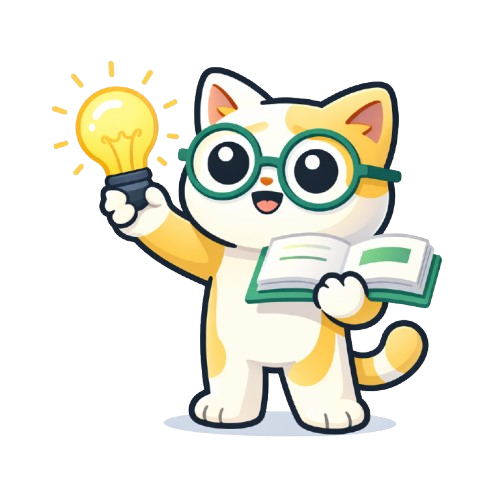
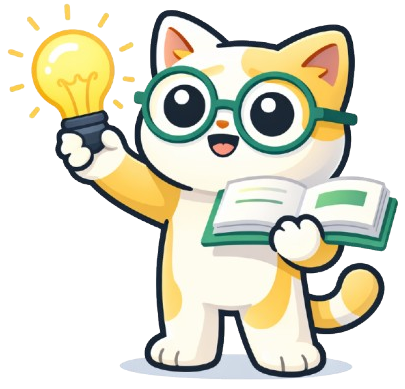
header redesign

diff --git a/lib/widgets/home/header_section.dart b/lib/widgets/home/header_section.dart
@@ -1,8 +1,8 @@
 import 'package:flutter/material.dart';
 import '../../models/user_data.dart';
-import '../../widgets/stat_card.dart';
 import '../../theme/app_colors.dart';
 import '../../theme/app_styles.dart';
+import '../sigma_mascot.dart';
 
 class HeaderSection extends StatelessWidget {
   final UserData userData;
@@ -37,58 +37,120 @@ class HeaderSection extends StatelessWidget {
         AppStyles.defaultPadding,
       ),
       child: Column(
+        crossAxisAlignment: CrossAxisAlignment.stretch,
         children: [
           Row(
             children: [
               Expanded(
-                child: Column(
-                  crossAxisAlignment: CrossAxisAlignment.start,
-                  children: [
-                    const Text('SigmaCards', style: AppStyles.headerTitle),
-                    const SizedBox(height: 4),
-                    Text('Keep learning every day', style: AppStyles.headerSubtitle),
-                  ],
+                child: Text(
+                  'СигмаКарточки',
+                  style: AppStyles.headerTitle,
                 ),
               ),
             ],
           ),
-          const SizedBox(height: AppStyles.defaultPadding),
-          _buildStatsRow(),
+          const SizedBox(height: 16),
+          Row(
+            crossAxisAlignment: CrossAxisAlignment.end,
+            children: [
+              Expanded(
+                child: Column(
+                  crossAxisAlignment: CrossAxisAlignment.start,
+                  mainAxisSize: MainAxisSize.min,
+                  children: [
+                    Row(
+                      children: [
+                        Text(
+                          '🔥',
+                          style: TextStyle(
+                            fontSize: 28,
+                            height: 1.1,
+                            shadows: [
+                              Shadow(
+                                color: Colors.black.withValues(alpha: 0.15),
+                                blurRadius: 4,
+                                offset: const Offset(0, 1),
+                              ),
+                            ],
+                          ),
+                        ),
+                        const SizedBox(width: 8),
+                        Text(
+                          '${userData.studyStreak}',
+                          style: const TextStyle(
+                            color: Colors.white,
+                            fontSize: 24,
+                            fontWeight: FontWeight.w800,
+                            height: 1.1,
+                          ),
+                        ),
+                        const SizedBox(width: 8),
+                        Flexible(
+                          child: Text(
+                            _streakLabel(userData.studyStreak),
+                            style: TextStyle(
+                              color: Colors.white.withValues(alpha: 0.88),
+                              fontSize: 15,
+                              fontWeight: FontWeight.w500,
+                              height: 1.1,
+                            ),
+                          ),
+                        ),
+                      ],
+                    ),
+                    const SizedBox(height: 16),
+                    Text(
+                      'Ученье — свет',
+                      style: Theme.of(context).textTheme.titleMedium?.copyWith(
+                            color: Colors.white,
+                            fontWeight: FontWeight.w700,
+                            letterSpacing: 0.2,
+                            shadows: [
+                              Shadow(
+                                color: Colors.black.withValues(alpha: 0.2),
+                                blurRadius: 6,
+                                offset: const Offset(0, 1),
+                              ),
+                            ],
+                          ),
+                    ),
+                    const SizedBox(height: 6),
+                    Text(
+                      'В этом свете — сила разума и путь сквозь тьму неведения.',
+                      style: Theme.of(context).textTheme.bodySmall?.copyWith(
+                            color: Colors.white.withValues(alpha: 0.9),
+                            height: 1.35,
+                            shadows: [
+                              Shadow(
+                                color: Colors.black.withValues(alpha: 0.18),
+                                blurRadius: 4,
+                                offset: const Offset(0, 1),
+                              ),
+                            ],
+                          ),
+                    ),
+                  ],
+                ),
+              ),
+              const SizedBox(width: 4),
+              Transform.translate(
+                offset: const Offset(-12, 0),
+                child: const SigmaMascot(size: 118),
+              ),
+            ],
+          ),
         ],
       ),
     );
   }
 
-  Widget _buildStatsRow() {
-    return Row(
-      children: [
-        Expanded(
-          child: StatCard(
-            icon: Icons.local_fire_department,
-            iconColor: AppColors.streakIconColor,
-            value: '${userData.studyStreak}',
-            label: 'Day Streak',
-          ),
-        ),
-        const SizedBox(width: AppStyles.sectionSpacing),
-        Expanded(
-          child: StatCard(
-            icon: Icons.calendar_today,
-            iconColor: AppColors.dueIconColor,
-            value: '${userData.dueCardsCount}',
-            label: 'Due Today',
-          ),
-        ),
-        const SizedBox(width: AppStyles.sectionSpacing),
-        Expanded(
-          child: StatCard(
-            icon: Icons.psychology,
-            iconColor: AppColors.decksIconColor,
-            value: '${userData.decks.length}',
-            label: 'Your Decks',
-          ),
-        ),
-      ],
-    );
+  /// «1 день подряд», «2 дня подряд», «5 дней подряд» и т.д.
+  static String _streakLabel(int n) {
+    final m10 = n % 10;
+    final m100 = n % 100;
+    if (m100 >= 11 && m100 <= 14) return 'дней подряд';
+    if (m10 == 1) return 'день подряд';
+    if (m10 >= 2 && m10 <= 4) return 'дня подряд';
+    return 'дней подряд';
   }
 }

diff --git a/lib/screens/home_screen.dart b/lib/screens/home_screen.dart
@@ -5,7 +5,6 @@ import '../theme/app_colors.dart';
 import '../widgets/home/header_section.dart';
 import '../widgets/home/quick_study_button.dart';
 import '../widgets/home/quick_actions_section.dart';
-import '../widgets/sigma_mascot.dart';
 
 /// Контент вкладки «Главная» (без собственного Scaffold — его даёт [MainShellScreen]).
 class HomeScreen extends StatelessWidget {
@@ -39,12 +38,12 @@ class HomeScreen extends StatelessWidget {
       color: isDark ? AppColors.darkBackground : AppColors.lightBackground,
       child: SizedBox.expand(
         child: SafeArea(
-          child: Column(
-            crossAxisAlignment: CrossAxisAlignment.stretch,
-            children: [
-              Expanded(
-                child: SingleChildScrollView(
-                  physics: const BouncingScrollPhysics(),
+          child: LayoutBuilder(
+            builder: (context, constraints) {
+              return SingleChildScrollView(
+                physics: const BouncingScrollPhysics(),
+                child: ConstrainedBox(
+                  constraints: BoxConstraints(minHeight: constraints.maxHeight),
                   child: Column(
                     crossAxisAlignment: CrossAxisAlignment.stretch,
                     children: [
@@ -107,45 +106,12 @@ class HomeScreen extends StatelessWidget {
                           ),
                         ),
                       ),
-                      const SizedBox(height: 16),
+                      const SizedBox(height: 24),
                     ],
                   ),
                 ),
-              ),
-              Padding(
-                padding: const EdgeInsets.fromLTRB(20, 4, 12, 8),
-                child: Row(
-                  crossAxisAlignment: CrossAxisAlignment.center,
-                  children: [
-                    Expanded(
-                      child: Column(
-                        crossAxisAlignment: CrossAxisAlignment.start,
-                        mainAxisSize: MainAxisSize.min,
-                        children: [
-                          Text(
-                            'Ученье — свет',
-                            style: Theme.of(context).textTheme.titleMedium?.copyWith(
-                                  fontWeight: FontWeight.w700,
-                                  letterSpacing: 0.2,
-                                ),
-                          ),
-                          const SizedBox(height: 6),
-                          Text(
-                            'В этом свете — сила разума и путь сквозь тьму неведения.',
-                            style: Theme.of(context).textTheme.bodySmall?.copyWith(
-                                  color: scheme.onSurfaceVariant,
-                                  height: 1.35,
-                                ),
-                          ),
-                        ],
-                      ),
-                    ),
-                    const SizedBox(width: 8),
-                    const SigmaMascot(size: 140),
-                  ],
-                ),
-              ),
-            ],
+              );
+            },
           ),
         ),
       ),
